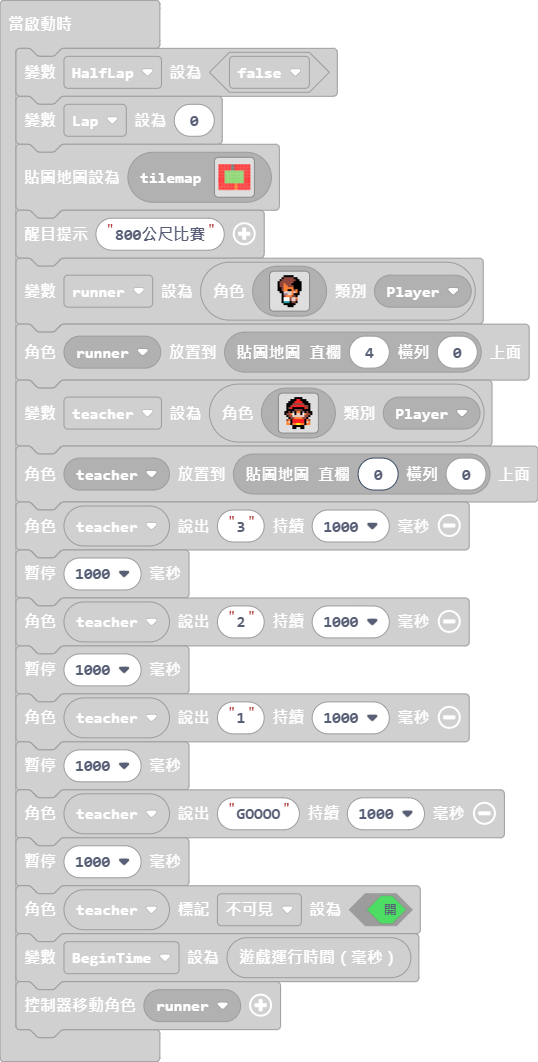
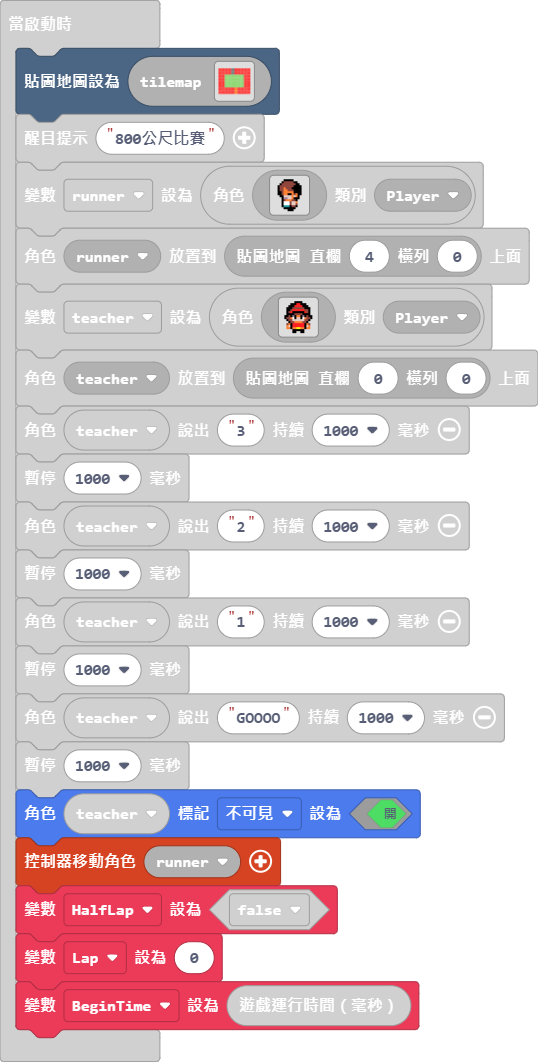
更新 main.blocks, main.ts, tilemap.g.jres, tilemap.g.ts

diff --git a/tilemap.g.ts b/tilemap.g.ts
@@ -91,6 +91,44 @@ namespace myTiles {
 . . . . . . . . . . . . . . . . 
 . . . . . . . . . . . . . . . . 
 `, [myTiles.transparency16], TileScale.Sixteen);
+            case "層級5":
+            case "層級5":return tiles.createTilemap(hex`1000100000000000000000000000000000000000000000000000000000000000000000000000000000000000000000000000000000000000000000000000000000000000000000000000000000000000000000000000000000000000000000000000000000000000000000000000000000000000000000000000000000000000000000000000000000000000000000000000000000000000000000000000000000000000000000000000000000000000000000000000000000000000000000000000000000000000000000000000000000000000000000000000000000000000000000000000000000000000000000000000000000000000000000000000000000000000`, img`
+. . . . . . . . . . . . . . . . 
+. . . . . . . . . . . . . . . . 
+. . . . . . . . . . . . . . . . 
+. . . . . . . . . . . . . . . . 
+. . . . . . . . . . . . . . . . 
+. . . . . . . . . . . . . . . . 
+. . . . . . . . . . . . . . . . 
+. . . . . . . . . . . . . . . . 
+. . . . . . . . . . . . . . . . 
+. . . . . . . . . . . . . . . . 
+. . . . . . . . . . . . . . . . 
+. . . . . . . . . . . . . . . . 
+. . . . . . . . . . . . . . . . 
+. . . . . . . . . . . . . . . . 
+. . . . . . . . . . . . . . . . 
+. . . . . . . . . . . . . . . . 
+`, [myTiles.transparency16], TileScale.Sixteen);
+            case "層級6":
+            case "層級6":return tiles.createTilemap(hex`1000100000000000000000000000000000000000000000000000000000000000000000000000000000000000000000000000000000000000000000000000000000000000000000000000000000000000000000000000000000000000000000000000000000000000000000000000000000000000000000000000000000000000000000000000000000000000000000000000000000000000000000000000000000000000000000000000000000000000000000000000000000000000000000000000000000000000000000000000000000000000000000000000000000000000000000000000000000000000000000000000000000000000000000000000000000000000`, img`
+. . . . . . . . . . . . . . . . 
+. . . . . . . . . . . . . . . . 
+. . . . . . . . . . . . . . . . 
+. . . . . . . . . . . . . . . . 
+. . . . . . . . . . . . . . . . 
+. . . . . . . . . . . . . . . . 
+. . . . . . . . . . . . . . . . 
+. . . . . . . . . . . . . . . . 
+. . . . . . . . . . . . . . . . 
+. . . . . . . . . . . . . . . . 
+. . . . . . . . . . . . . . . . 
+. . . . . . . . . . . . . . . . 
+. . . . . . . . . . . . . . . . 
+. . . . . . . . . . . . . . . . 
+. . . . . . . . . . . . . . . . 
+. . . . . . . . . . . . . . . . 
+`, [myTiles.transparency16], TileScale.Sixteen);
         }
         return null;
     })

diff --git a/main.ts b/main.ts
@@ -97,11 +97,9 @@ controller.down.onEvent(ControllerButtonEvent.Pressed, function () {
         `)
 })
 let Time = 0
-let runner: Sprite = null
 let Lap = 0
 let HalfLap = false
-HalfLap = false
-Lap = 0
+let runner: Sprite = null
 tiles.setCurrentTilemap(tilemap`層級3`)
 game.splash("800公尺比賽")
 runner = sprites.create(img`
@@ -151,8 +149,10 @@ pause(1000)
 teacher.say("GOOOO", 1000)
 pause(1000)
 teacher.setFlag(SpriteFlag.Invisible, true)
-let BeginTime = game.runtime()
 controller.moveSprite(runner)
+HalfLap = false
+Lap = 0
+let BeginTime = game.runtime()
 game.onUpdateInterval(200, function () {
     Time = (game.runtime() - BeginTime) / 1000
     info.setScore(Time)
